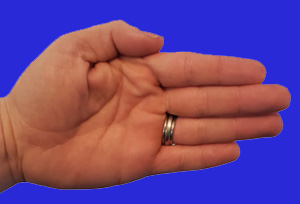
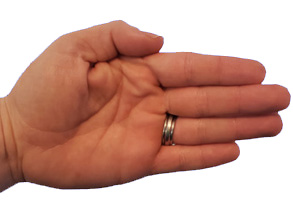
Made adjustments to image sizes for rock paper scissors

diff --git a/rps.html b/rps.html
@@ -14,8 +14,6 @@
         <h1>Rock Paper Scissors Game</h1>
     </header>
 
-    
-
     <div id="appRPS">
         <h3 id="playerScore">Score: {{playerScore}}</h3>
         <h3 id="computerScore">Score: {{computerScore}}</h3>
@@ -28,8 +26,6 @@
         <div v-else class ="playerPic">
             <img v-bind:src="playerPic" alt="PlayerPic" id="playerPic"><!--Player Hand-->
         </div>
-        
-        <p id="countDown"><!--Countdown Timer--></p>
 
         <div v-if="compPic === null" class ="compPic">
             <img src="images/eigthyThreeFws.jpg" alt="compHand" ><!--default pic-->
@@ -37,8 +33,7 @@
         <div v-else class ="compPic">
             <img v-bind:src="compPic" alt="compHand" ><!--Computer Hand-->
         </div>
-        
-        
+  
         <select v-model="selected">
             <option disabled value="">Please select one</option>
             <option value="Rock">Rock</option>

diff --git a/css/rps.css b/css/rps.css
@@ -47,12 +47,21 @@ header {
 }
 
 #appRPS .playerPic{
+    border-style: solid;
+    border-color: black;
+    border-width: 10px;
+    background-color: white;
+    padding: 20px 0px 0px 65px;
     grid-row: 3;
     grid-column: 1;
 }
 
 #appRPS .compPic{
-    padding-left: 100px;
+    border-style: solid;
+    border-color: black;
+    border-width: 10px;
+    background-color: white;
+    padding: 20px 0px 0px 65px;
     grid-row: 3;
     grid-column: 3;
 }

diff --git a/js/rps.js b/js/rps.js
@@ -6,7 +6,7 @@ new Vue({
         test: 'Hello',
         status: ['Won', 'Lost', 'Tied'],
         playerStatus: 'Hello',
-        compStatus: 'Comp Hello',
+        compStatus: 'Hello',
         countdownPics: [],
         playerPics: ['images/pRock.jpg','images/pPaper.jpg','images/pScissor.jpg'],
         compPics: ['images/cRock.jpg','images/cPaper.jpg','images/cScissors.jpg'],
